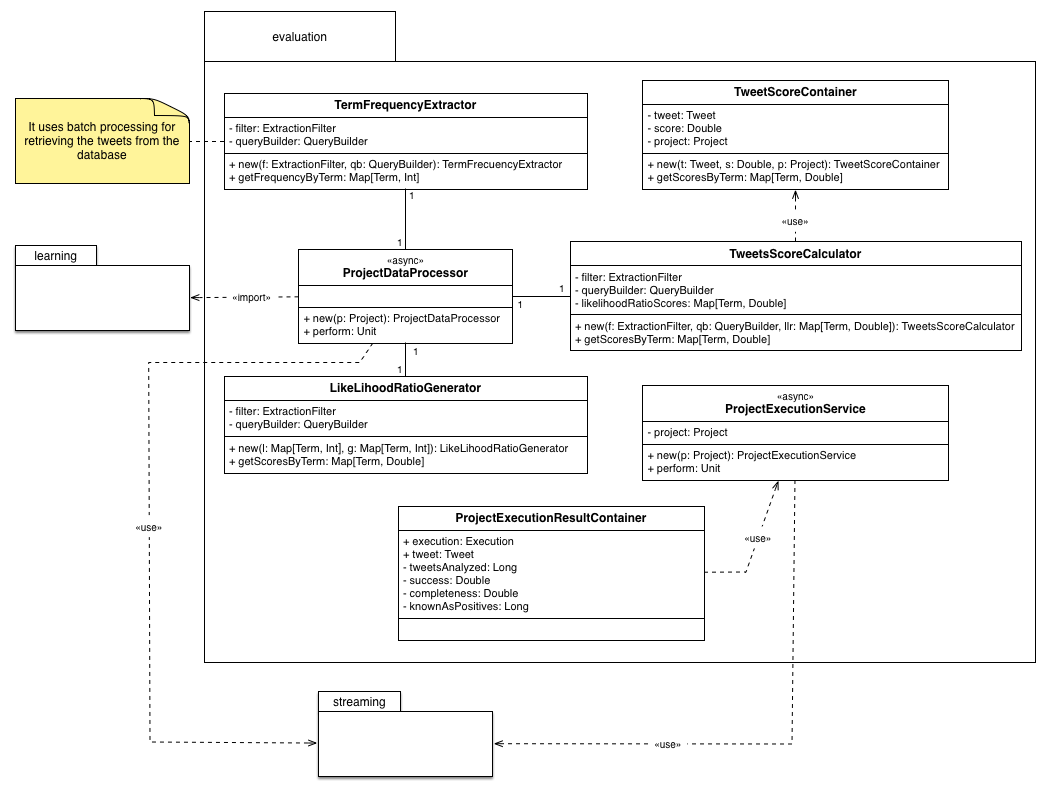
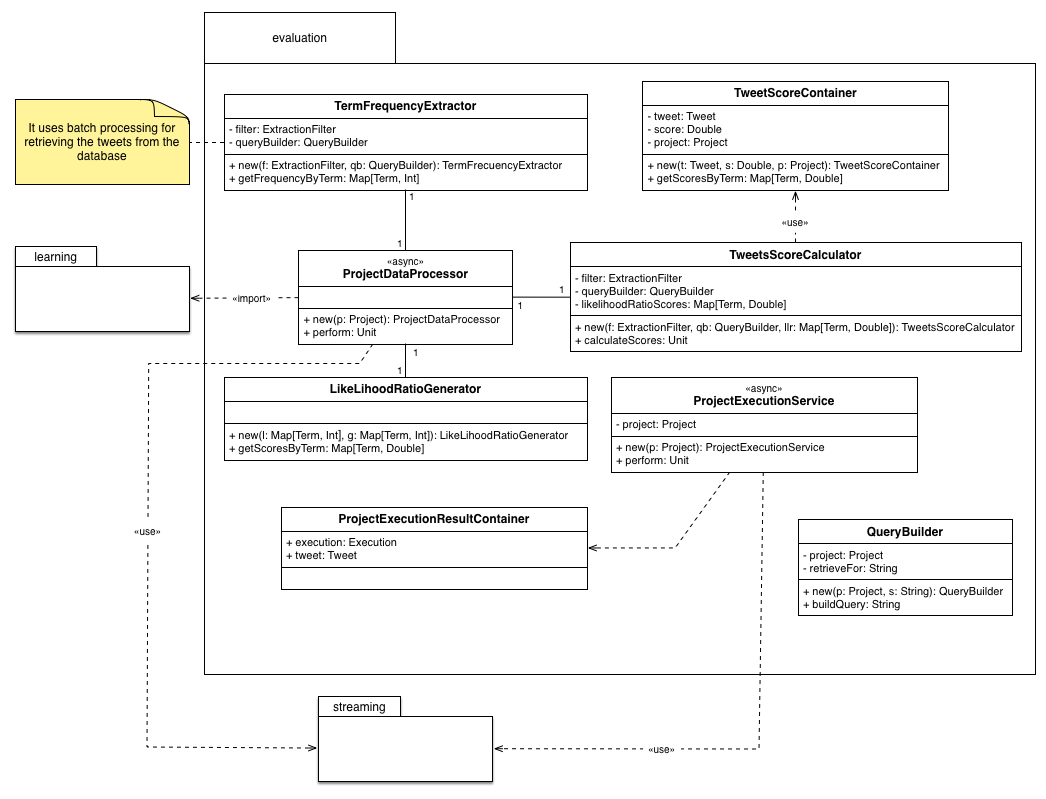
Update digrams and add some explanation about what this section speak about

diff --git a/out/main.html b/out/main.html
@@ -3275,10 +3275,10 @@ reader.foreach({
 <div class="sect2">
 <h3 id="_diseño_del_sistema">5.2. Diseño del sistema</h3>
 <div class="paragraph">
-<p>Las siguientes páginas muestran el diseño propuesto para realizar la aplicación web de geolocalización como servicio. Es importante señalar que el diseño está pensado para ser implementado utilizando el framework de desarrollo web <strong>Play!</strong> y el lenguaje de programación <strong>Scala</strong>.</p>
+<p>Las siguientes páginas muestran el diseño propuesto para realizar la aplicación web de geolocalización como servicio. Debido a que el objetivo de este capítulo es indicar como se podría integrar en una aplicación web <em>convencional</em> la tecnología estudiada en los capítulos anteriores, se han omitido los detalles acerca de subsistemas y conjuntos de clases que no están relacionados directamente con el problema en cuestión. Específicamente, se han dejado de lado las capas de acceso a datos y las capas de presentación.</p>
 </div>
 <div class="paragraph">
-<p>Las razones de dicha elección, que ya figura como requisito del sistema en la sección de análisis, es que Scala ha sido el lenguaje utilizado para desarrollar los prototipos y experimentos para obtener un algoritmo capaz de inferir la localización de una publicación en medios sociales y su eficacia para tratar con un problema de este tipo, por tanto, ya ha sido probada con anterioridad. Play! es el framework de referencia para realizar aplicaciones web sobre dicho lenguaje, por lo que prácticamente es un requisito implícito al hecho de utilizar Scala como lenguaje principal.</p>
+<p>También es importante señalar que el diseño está pensado para ser implementado utilizando el framework de desarrollo web <strong>Play!</strong> y el lenguaje de programación <strong>Scala</strong>. Las razones de dicha elección, que ya figura como requisito del sistema en la sección de análisis, es que Scala ha sido el lenguaje utilizado para desarrollar los prototipos y experimentos para obtener un algoritmo capaz de inferir la localización de una publicación en medios sociales y su eficacia para tratar con un problema de este tipo, por tanto, ya ha sido probada con anterioridad. Play! es el framework de referencia para realizar aplicaciones web sobre dicho lenguaje, por lo que prácticamente es un requisito implícito al hecho de utilizar Scala como lenguaje principal.</p>
 </div>
 <div class="paragraph">
 <p>A pesar de ello, Play! tiene una serie de características propias que será necesario remarcar para conseguir una mejor comprensión del diseño posterior:</p>
@@ -3346,6 +3346,25 @@ reader.foreach({
 </div>
 <div class="paragraph">
 <p>En primer lugar, la figura <a href="#streaming-system-diagram">Diagrama de clases del servicio externo de Streaming</a> muestra el sistema externo (implementado en Scala) encargado de comunicarse con el <em>firehose</em> de Twitter. El paquete <code>com.bonobo.streaming.retriever</code> contiene las clases encargadas de comunicarse con el servicio de streaming y hacer accesibles al resto de la aplicación los tuits obtenidos. Como se comentó en la sección de Análisis, se hace uso del patrón de diseño <strong>Observer</strong> para permitir que múltiples instancias puedan hacer uso del mismo flujo de datos.</p>
+</div>
+<div class="paragraph">
+<p>El resto de paquetes representan la estructura convencional de cualquier sistema informático:</p>
+</div>
+<div class="ulist">
+<ul>
+<li>
+<p><code>com.bonobo.streaming.main</code>: Contiene la clase que inicia la ejecución del sistema.</p>
+</li>
+<li>
+<p><code>com.bonobo.streaming.configuration</code>: Contiene la clase de configuración que permite acceder a las credenciales de Twitter y la configuración de la base de datos.</p>
+</li>
+<li>
+<p><code>com.bonobo.streaming.db</code>: Contiene la clase encargada de serializar los modelos a la base de datos.</p>
+</li>
+<li>
+<p><code>com.bonobo.streaming.model</code>: Contiene el modelo de la aplicación: <strong>Tweet</strong>.</p>
+</li>
+</ul>
 </div>
 <div id="streaming-system-diagram" class="imageblock" style="text-align: center">
 <div class="content">
@@ -3455,8 +3474,16 @@ reader.foreach({
 </div>
 </div>
 <div class="sect3">
-<h4 id="_diseño_del_plan_de_pruebas">5.2.4. Diseño del plan de pruebas</h4>
-
+<h4 id="_desarrollo_dirigido_por_pruebas">5.2.4. Desarrollo dirigido por pruebas</h4>
+<div class="paragraph">
+<p>Aunque el objetivo de este capítulo es mostrar un diseño capaz de ofrecer la posibilidad de aplicar la tecnología estudiada en los capítulos anteriores dentro de la estructura de una aplicación web <em>convencional</em>, a continuación se muestra una reflexión acerca del proceso para desarrollar un sistema basado en el diseño anterior de manera que presente el mayor grado de fiabilidad.</p>
+</div>
+<div class="paragraph">
+<p>Existe mucha literatura acerca de los beneficios de realizar desarrollo dirigido por pruebas (conocido como <strong>Test Driven Development<span class="footnote">[<a id="_footnoteref_9" class="footnote" href="#_footnote_9" title="View footnote.">9</a>]</span></strong> en inglés). Principalmente, es un proceso que permite una mejor compresión del sistema que se va a implementar, puesto que es necesario conocer los requisitos en profundidad para poder establecer las pruebas antes de comenzar la implementación <em>per se</em>. Además, permite añadir un mayor número de capas de seguridad que facilitarán el desarrollo de un código más robusto (y, por supuesto, aporta el único mecanismo posible para realizar labores de <strong>Refactoring</strong> sin riesgo de introducir nuevos <em>bugs</em> en el sistema).</p>
+</div>
+<div class="paragraph">
+<p>A la hora de desarrollar la aplicación se recomendaría encarecidamente el uso de esta metodología, acompañada del framework <strong>ScalaTest<span class="footnote">[<a id="_footnoteref_10" class="footnote" href="#_footnote_10" title="View footnote.">10</a>]</span></strong>, para ejecutar pruebas unitarias de todos los modelos y clases anteriormente descritas de manera automática.</p>
+</div>
 </div>
 </div>
 </div>
@@ -3631,7 +3658,7 @@ scalacOptions ++= Seq("-unchecked", "-deprecation") <i class="conum" data-value=
 <div class="sect2">
 <h3 id="_vowpal_wabbit">Vowpal Wabbit</h3>
 <div class="paragraph">
-<p><strong>Vowpal Wabbit<span class="footnote">[<a id="_footnoteref_9" class="footnote" href="#_footnote_9" title="View footnote.">9</a>]</span></strong> es un proyecto creado originalmente por <em>Yahoo! Research</em> que fue posteriormente continuado por <em>Microsoft Research</em>, consistente en la creación de un nuevo algoritmo de aprendizaje automático rápido y escalable que permita trabajar con grandes cantidades de datos. A partir de una serie de información específicamente preparada para ser consumida por Vowpal Wabbit, este es capaz de crear un propio modelo de datos que sirva como base de entrenamiento para después, mediante la aplicación de diversos algoritmos, predecir un resultado en base al conocimiento adquirido en ejecuciones anteriores.</p>
+<p><strong>Vowpal Wabbit<span class="footnote">[<a id="_footnoteref_11" class="footnote" href="#_footnote_11" title="View footnote.">11</a>]</span></strong> es un proyecto creado originalmente por <em>Yahoo! Research</em> que fue posteriormente continuado por <em>Microsoft Research</em>, consistente en la creación de un nuevo algoritmo de aprendizaje automático rápido y escalable que permita trabajar con grandes cantidades de datos. A partir de una serie de información específicamente preparada para ser consumida por Vowpal Wabbit, este es capaz de crear un propio modelo de datos que sirva como base de entrenamiento para después, mediante la aplicación de diversos algoritmos, predecir un resultado en base al conocimiento adquirido en ejecuciones anteriores.</p>
 </div>
 <div class="paragraph">
 <p>Además de la velocidad y precisión de los resultados que puede ofrecer Vowpal Wabbit, una de sus características más importantes es la capacidad de funcionar como un demonio del sistema e ir aprendiendo <em>en caliente</em> a través de nuevos modelos de datos. Esto, a diferencia de otros software de aprendizaje automático, permite que el sistema pueda adquirir un conocimiento incremental y ofrecer mejores resultados a medida que pasa el tiempo.</p>
@@ -3742,7 +3769,7 @@ Usage: vw-input-translator [options] &lt;file&gt;
 <div class="content">
 <img src="../assets/appendixes/twitter-streaming-api.png" alt="Modelo de comunicación entre un cliente y la API Streaming de Twitter">
 </div>
-<div class="title">Figure 27. Comunicación entre un cliente y la API Streaming de Twitter<span class="footnote">[<a id="_footnoteref_10" class="footnote" href="#_footnote_10" title="View footnote.">10</a>]</span></div>
+<div class="title">Figure 27. Comunicación entre un cliente y la API Streaming de Twitter<span class="footnote">[<a id="_footnoteref_12" class="footnote" href="#_footnote_12" title="View footnote.">12</a>]</span></div>
 </div>
 <div class="sect2">
 <h3 id="_almacenamiento_de_datos">Almacenamiento de datos</h3>
@@ -4033,10 +4060,16 @@ Usage: Falcon [options]
 <a href="#_footnoteref_8">8</a>. Denominados <em>Dynos</em> en Heroku (<a href="https://www.heroku.com/features">https://www.heroku.com/features</a>) o <em>Gears</em> en OpenShift (<a href="https://www.openshift.com/products/pricing">https://www.openshift.com/products/pricing</a>)
 </div>
 <div class="footnote" id="_footnote_9">
-<a href="#_footnoteref_9">9</a>. <a href="http://hunch.net/~vw/">http://hunch.net/~vw/</a>
+<a href="#_footnoteref_9">9</a>. <a href="http://martinfowler.com/bliki/TestDrivenDevelopment.html">http://martinfowler.com/bliki/TestDrivenDevelopment.html</a>
 </div>
 <div class="footnote" id="_footnote_10">
-<a href="#_footnoteref_10">10</a>. <a href="https://dev.twitter.com/docs/api/streaming">https://dev.twitter.com/docs/api/streaming</a>
+<a href="#_footnoteref_10">10</a>. <a href="http://www.scalatest.org/">http://www.scalatest.org/</a>
+</div>
+<div class="footnote" id="_footnote_11">
+<a href="#_footnoteref_11">11</a>. <a href="http://hunch.net/~vw/">http://hunch.net/~vw/</a>
+</div>
+<div class="footnote" id="_footnote_12">
+<a href="#_footnoteref_12">12</a>. <a href="https://dev.twitter.com/docs/api/streaming">https://dev.twitter.com/docs/api/streaming</a>
 </div>
 </div>
 <div id="footer">
